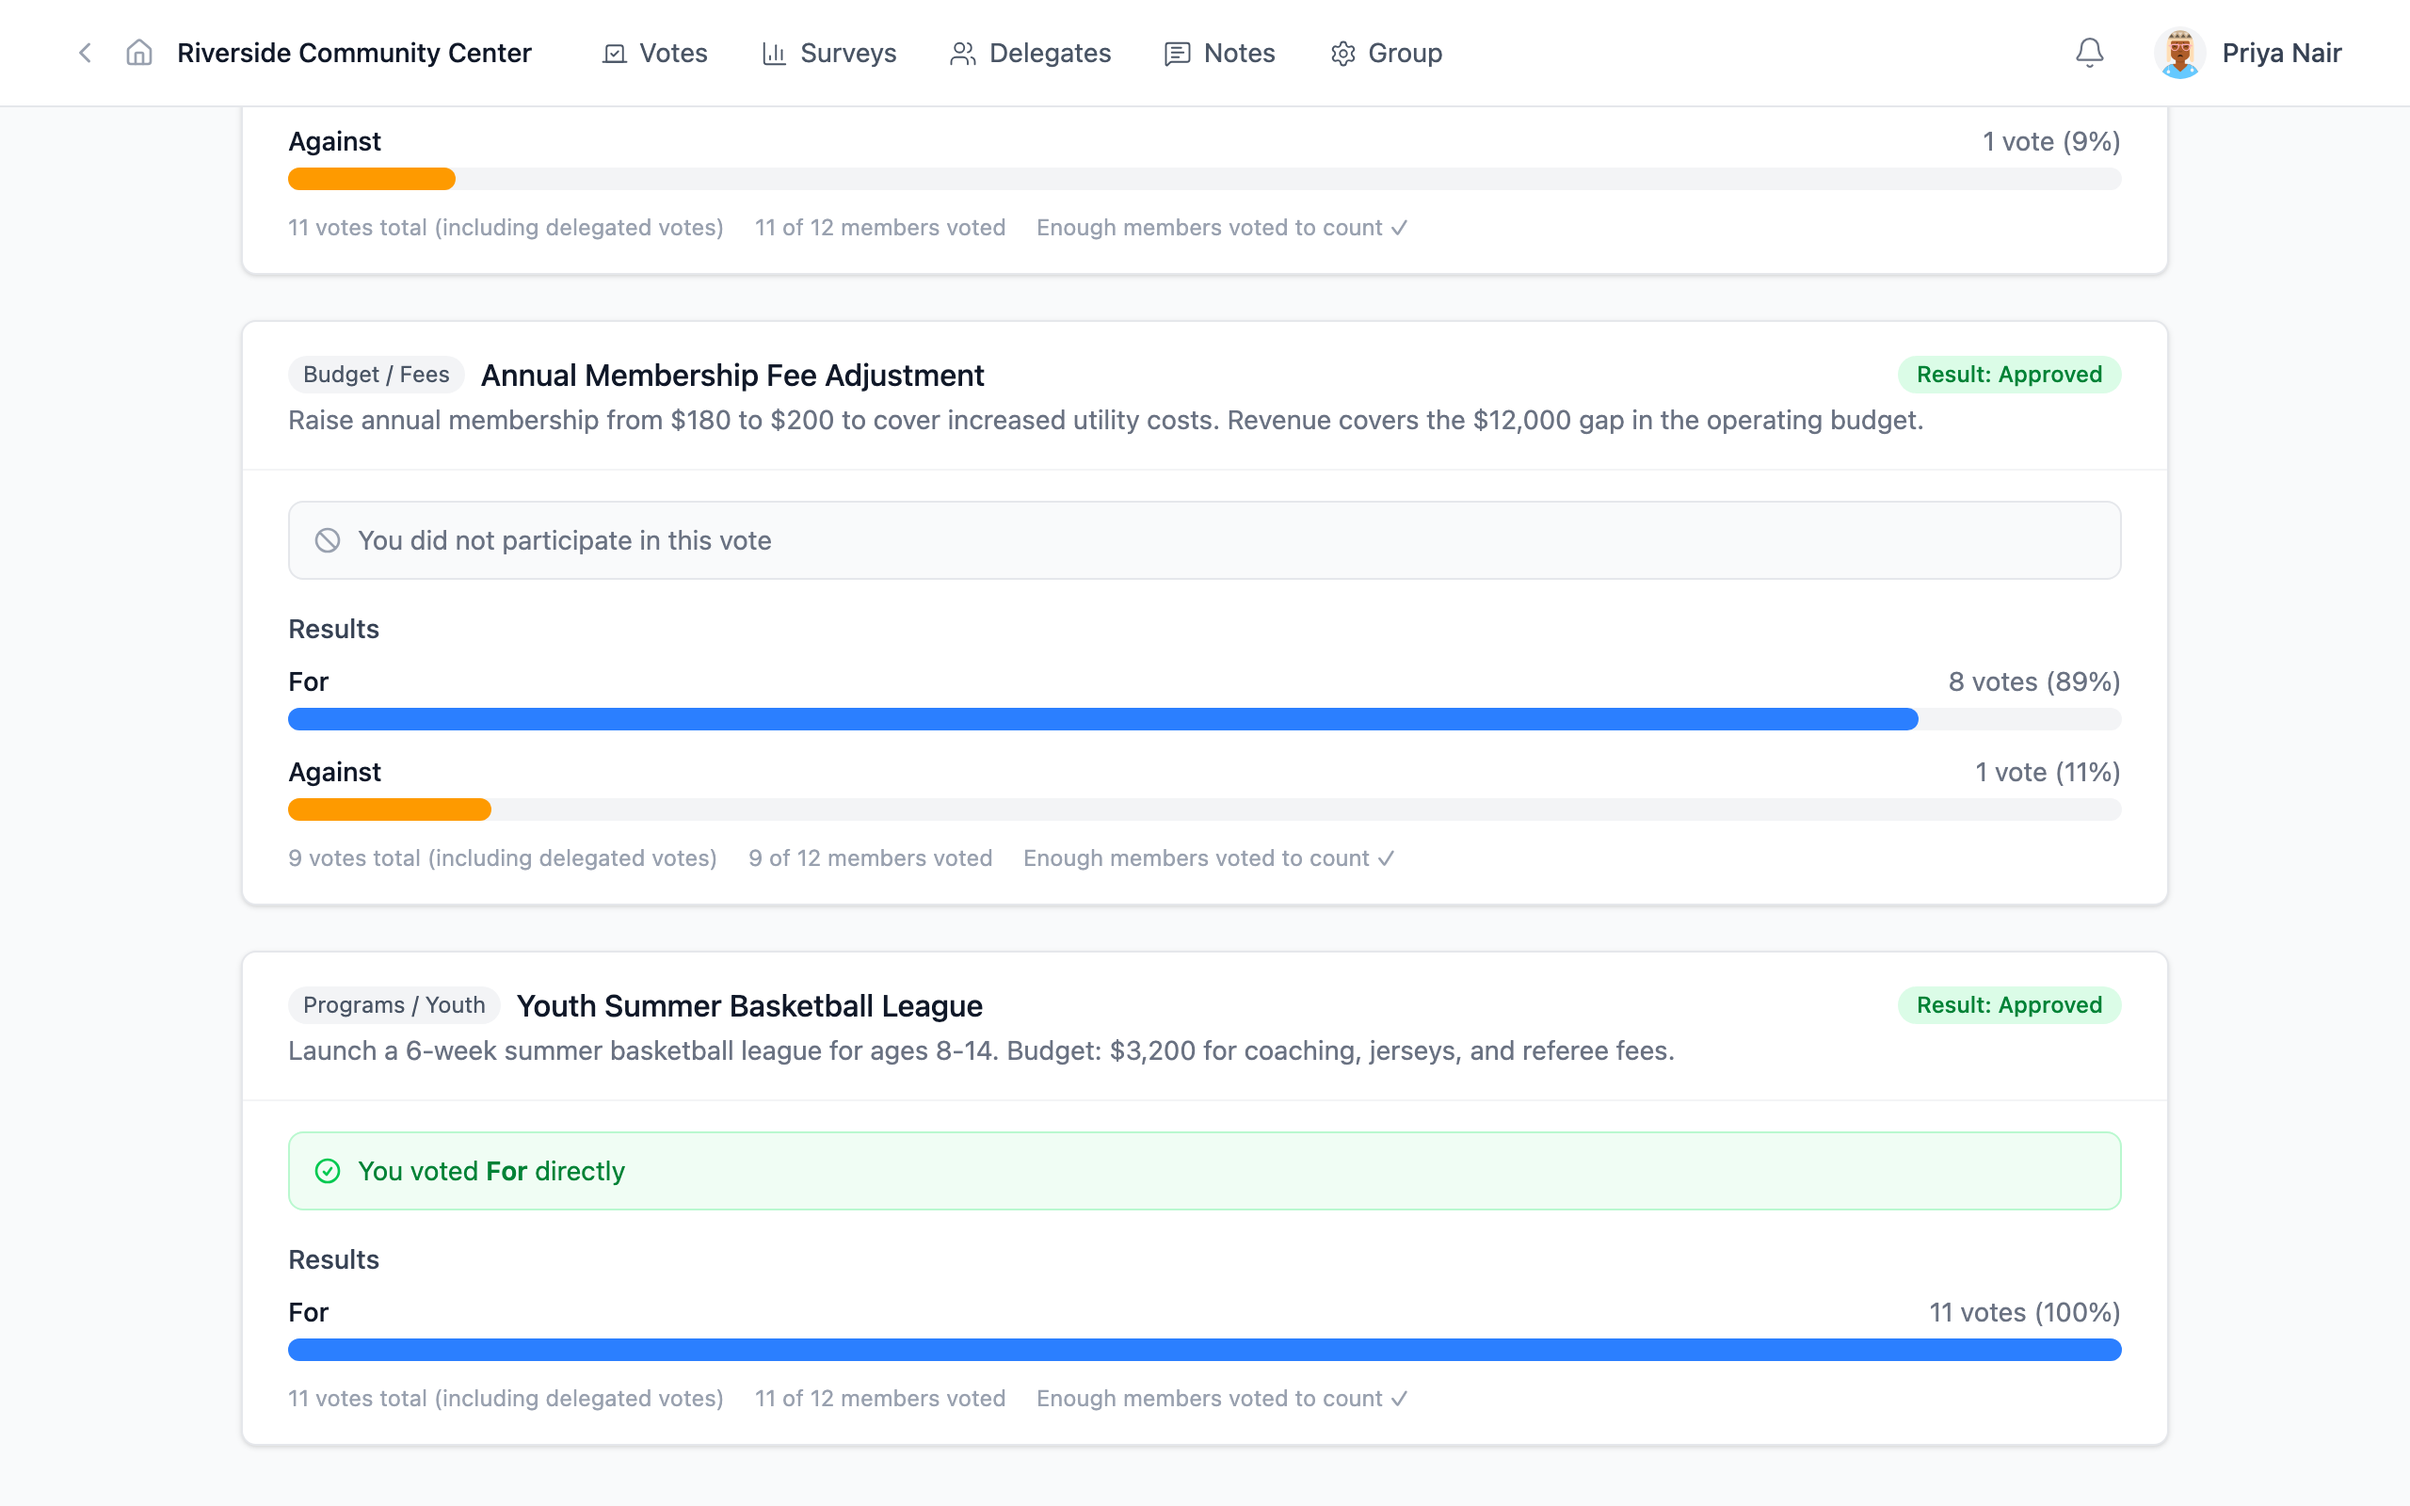
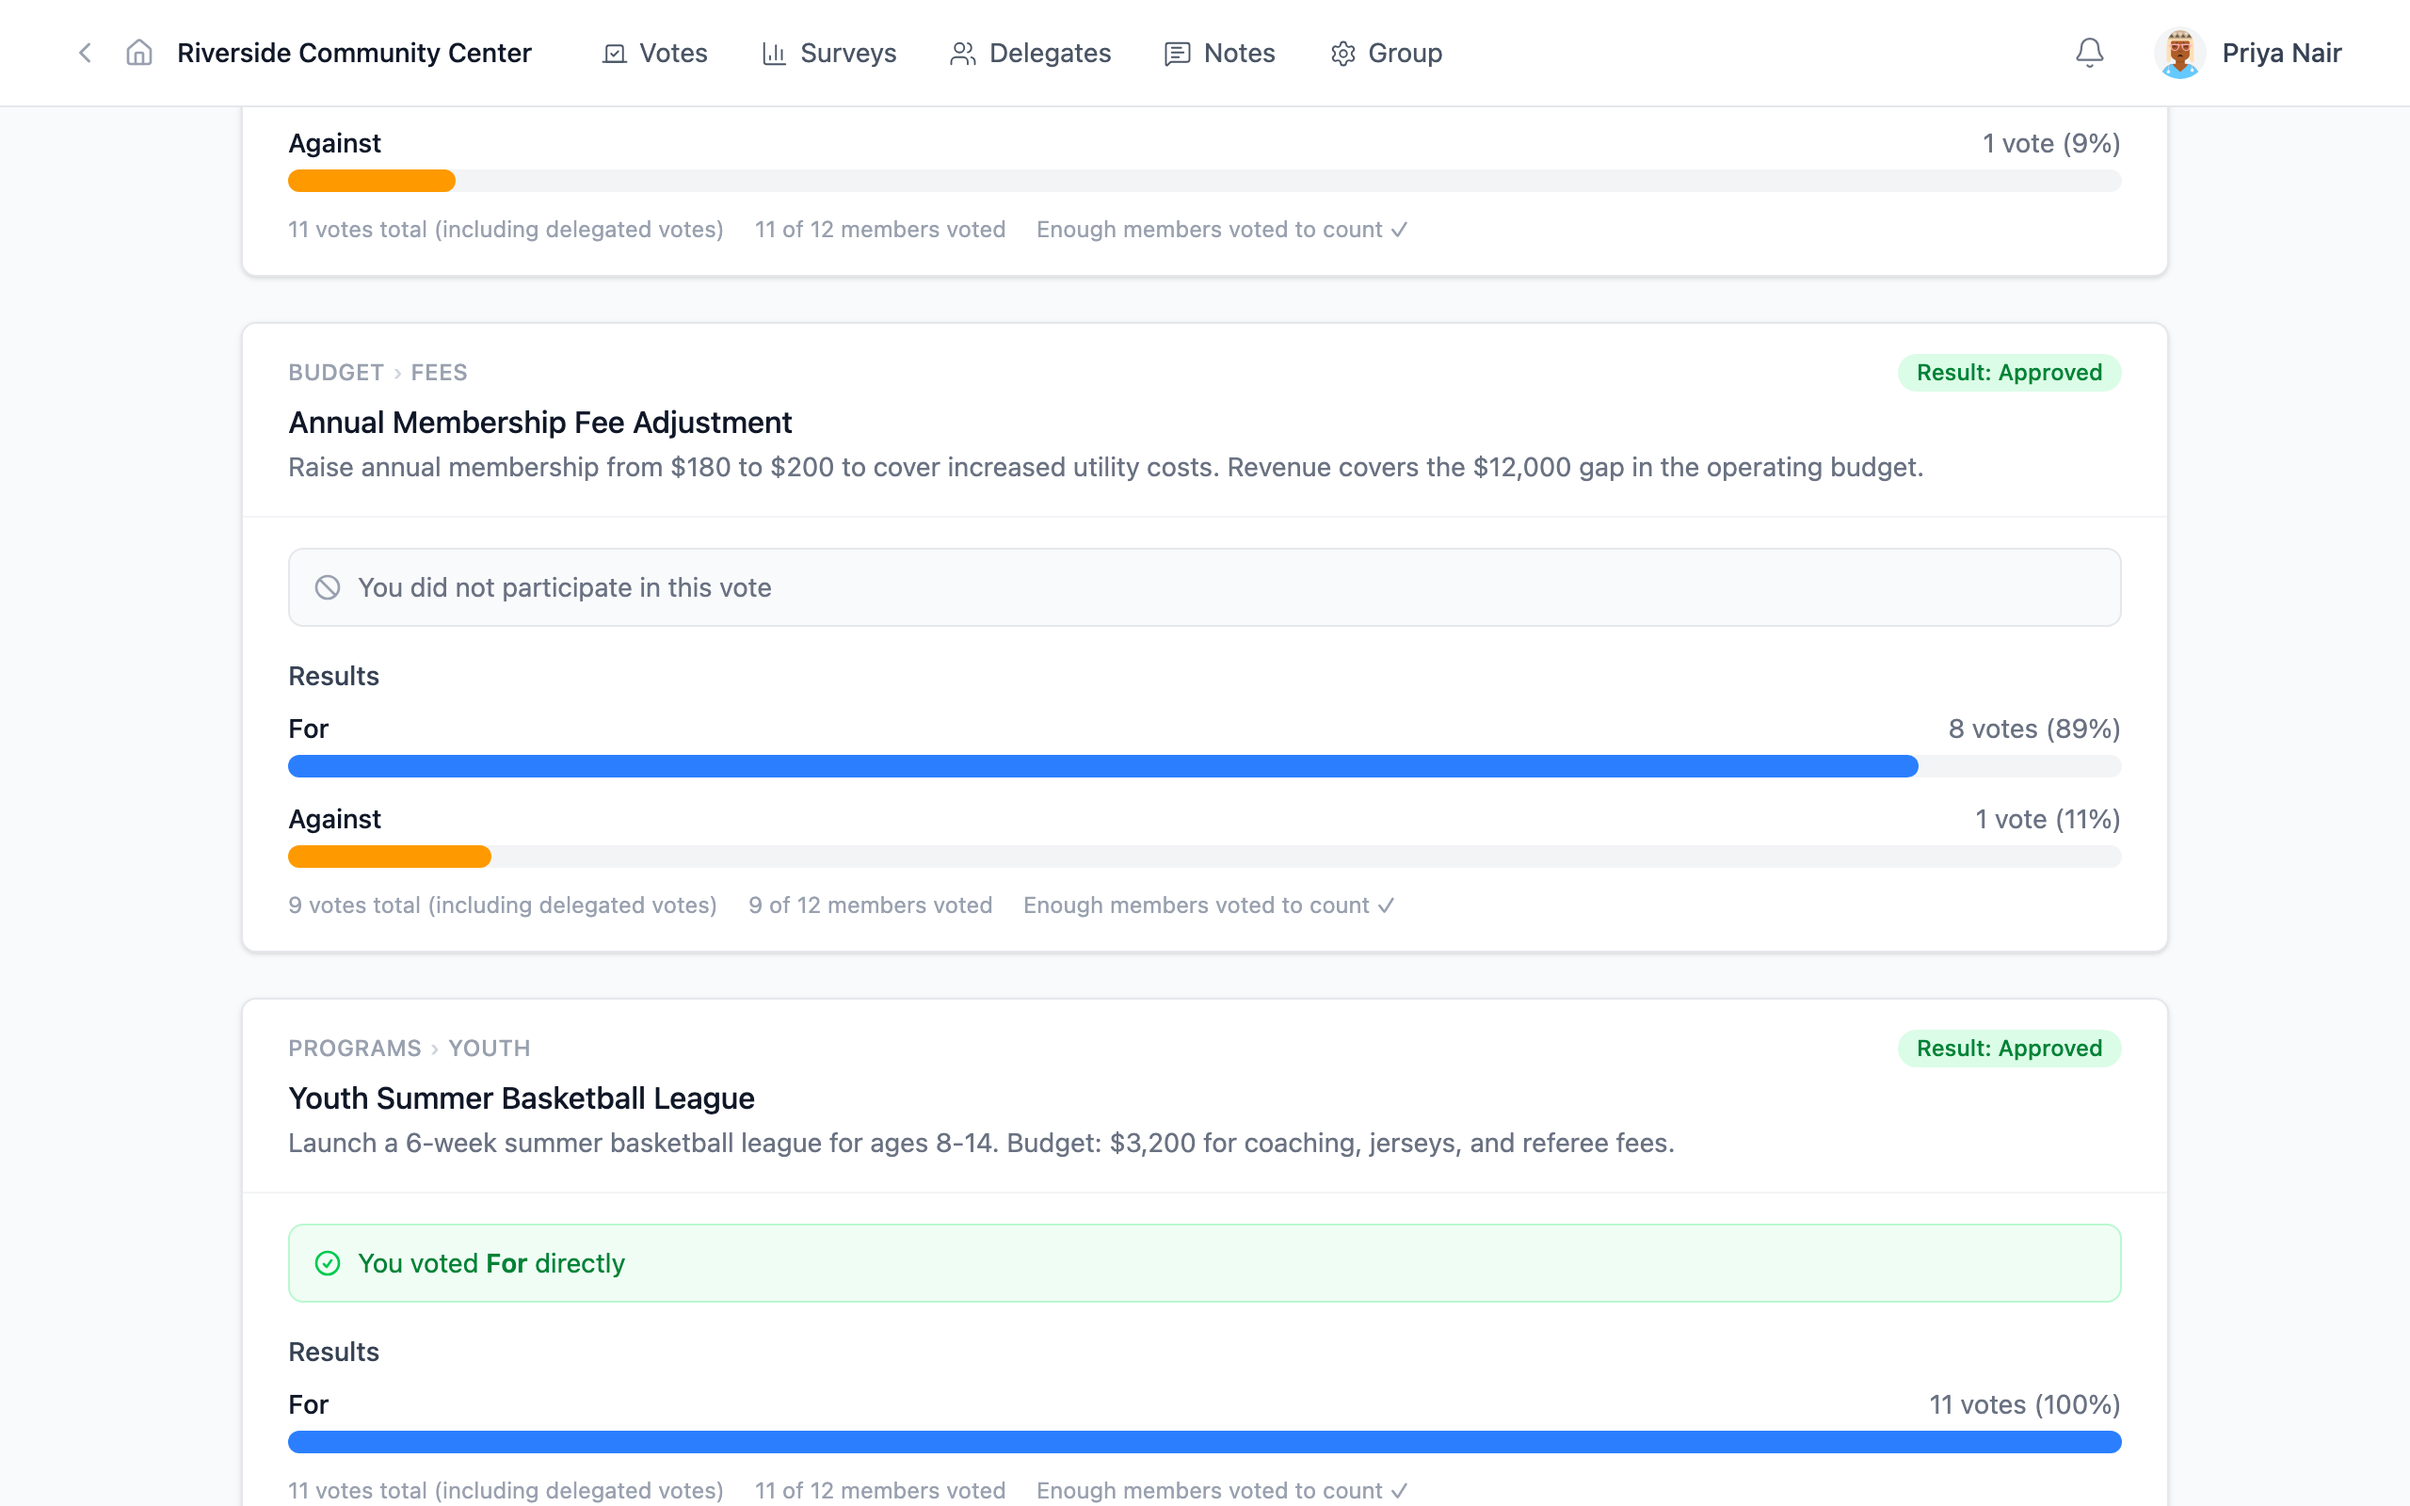
fix: update screenshots and text for eyebrow topic labels
Retake all 13 screenshots with the new eyebrow pretitle layout
(uppercase TOPIC › SUBTOPIC above the card title). Update case study
text to reference the new visual format.

diff --git a/case-studies/riverside-community-center/README.md b/case-studies/riverside-community-center/README.md
@@ -12,7 +12,7 @@ Their topic taxonomy is simple — two levels deep, easy to scan:
 - **Facilities** — Maintenance, Improvements
 - **Budget** — Fees, Grants
 
-This structure matters more than it might seem. When a vote is classified under "Budget / Fees," different people carry voting weight than when the same question is classified under "Programs / Youth." Topic classification isn't just an organizational convenience — it's a governance decision.
+This structure matters more than it might seem. When a vote is classified under "BUDGET › FEES," different people carry voting weight than when the same question is classified under "PROGRAMS › YOUTH." Topic classification isn't just an organizational convenience — it's a governance decision.
 
 ## Priya's Delegation: Trust by Domain
 
@@ -31,25 +31,25 @@ This is the core idea behind topic-scoped delegation: you don't have to be an ex
 
 In the spring review vote, each issue shows its topic as a badge before the title. At a glance, Priya can see which of her delegates is handling what:
 
-![Spring results showing three issues with topic badges: Facilities / Maintenance, Budget / Fees, and Programs / Youth](images/03-spring-results-top.png)
+![Spring results showing three issues with topic eyebrows: FACILITIES › MAINTENANCE, BUDGET › FEES, and PROGRAMS › YOUTH](images/03-spring-results-top.png)
 
-- **Facilities / Maintenance** — Pool Resurfacing: Marco voted for Priya (she sees her vote was delegated).
-- **Budget / Fees** — Membership Fee Adjustment: Sam voted for Priya.
-- **Programs / Youth** — Youth Basketball League: Priya voted directly.
+- **FACILITIES › MAINTENANCE** — Pool Resurfacing: Marco voted for Priya (she sees her vote was delegated).
+- **BUDGET › FEES** — Membership Fee Adjustment: Sam voted for Priya.
+- **PROGRAMS › YOUTH** — Youth Basketball League: Priya voted directly.
 
 The results reflect this. The fee adjustment shows 9 votes total — Sam's single vote carried the weight of four people (himself plus Priya, David, and Kwesi, who all delegate Budget to him). The basketball league shows 11 votes with Leah Chen carrying three (herself plus Janet and Nina, who delegate Programs to her).
 
-![Results showing Budget / Fees with 8 votes for (89%) and Programs / Youth with 11 votes for (100%), with delegation weight visible](images/04-spring-results-bottom.png)
+![Results showing BUDGET › FEES with 8 votes for (89%) and PROGRAMS › YOUTH with 11 votes for (100%), with delegation weight visible](images/04-spring-results-bottom.png)
 
 The numbers aren't just arithmetic. They tell a story about who the community trusts to make which decisions.
 
 ## The Misclassification
 
-In the summer planning vote, Diana Reyes (the center director) creates three issues. One of them — "Summer Camp Registration Fees" — is classified under **Budget / Fees**.
+In the summer planning vote, Diana Reyes (the center director) creates three issues. One of them — "Summer Camp Registration Fees" — is classified under **BUDGET › FEES**.
 
 This seems reasonable. Registration fees are about money, right?
 
-![Summer Planning event showing three issues: HVAC System Replacement (Facilities / Improvements), Summer Camp Registration Fees (Budget / Fees, struck through with Cancelled badge), and Adult Fitness Class Expansion (Programs / Adult)](images/06-cancelled-issue.png)
+![Summer Planning event showing three issues: HVAC System Replacement (FACILITIES › IMPROVEMENTS), Summer Camp Registration Fees (BUDGET › FEES, struck through with Cancelled badge), and Adult Fitness Class Expansion (PROGRAMS › ADULT)](images/06-cancelled-issue.png)
 
 But Leah Chen, the youth programs coordinator, sees a problem. She writes a community note on Sam's fee schedule proposal:
 
@@ -63,9 +63,9 @@ Four members endorse Leah's note. The community agrees: the classification is wr
 
 Diana cancels the misclassified issue. It stays in the record — struck through with a red "Cancelled" badge — as a transparent audit trail. Nothing is deleted.
 
-She creates a new vote: "Summer Camp Registration Structure," classified under **Programs / Youth**.
+She creates a new vote: "Summer Camp Registration Structure," classified under **PROGRAMS › YOUTH**.
 
-![Corrected event showing Summer Camp Registration Structure with Programs / Youth badge, Leah's proposal in the voting booklet](images/07-corrected-camp-issue.png)
+![Corrected event showing Summer Camp Registration Structure with PROGRAMS › YOUTH badge, Leah's proposal in the voting booklet](images/07-corrected-camp-issue.png)
 
 Now Leah's proposal — which focuses on inclusive design, scholarship tiers, and age-appropriate groupings — sits in the voting booklet. And Leah carries the delegated weight of the two members who trust her on youth programs.
 
@@ -91,7 +91,7 @@ A more specific delegation always overrides a more general one.
 | Feature | Governance principle |
 |---------|---------------------|
 | Single topic per issue | Every vote has one clear classification — no ambiguity about which delegations activate |
-| "Parent / Child" badges | Voters immediately see which domain a vote belongs to |
+| Topic eyebrow with › chevron | Voters immediately see which domain a vote belongs to |
 | Topic-scoped delegation | Expertise flows where it's needed without surrendering your voice everywhere |
 | Issue-scoped delegation | Specific trust for a single question, without long-term commitment |
 | Community notes | Collective oversight of the governance process itself, not just the issues |
